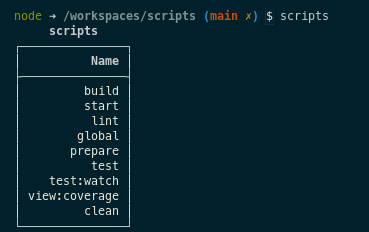
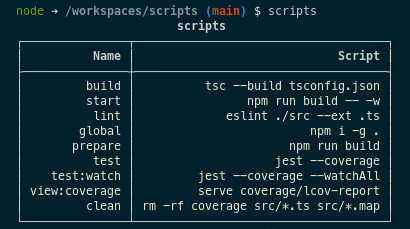
WIP

diff --git a/_sass/app.scss b/_sass/app.scss
@@ -5,3 +5,19 @@
 h3 a, li a {
   font-size: inherit;
 }
+
+p {
+  margin-top: 1rem;
+  margin-bottom: 1rem;
+}
+
+#post {
+  img.half {
+    width: 50%;
+    height: auto;
+  }
+}
+
+.center {
+  text-align: center;
+}

diff --git a/_posts/2020-12-21-quickly-view-node-project-scripts-on-the-cli.md b/_posts/2020-12-21-quickly-view-node-project-scripts-on-the-cli.md
@@ -1,18 +1,30 @@
 ---
-title: Quickly view node project scripts on the cli
+title: Quickly view nodejs project 'scripts' on the cli
 layout: post
 caegories: [nodejs]
 tags: [cli, web-development]
-slug: quickly-view-node-project-scripts-on-the-cli
+slug: quickly-view-nodejs-project-scripts-on-the-cli
 ---
 
-Ahnii! I previously wrote a command line utility named '[packages](./quickly-view-project-dependencies-on-the-cli.md)' which simply prints a list of project dependencies on the command line.
+Ahnii! I previously wrote a command line utility named '[packages]({{ site.baseurl }}{% link _posts/2020-11-21-quickly-view-project-dependencies-on-the-cli.md %})' which simply prints a list of project dependencies on the command line.
 
-I also found that I often want to see a list of scripts in package.json too, so I wrote another utility I've named 'scripts'.
+I found that I also often want to see a list of scripts in package.json, so I wrote another utility I've named 'scripts', observe:
 
-![scripts screenshot](/assets/img/screenshot-scripts.png)
+<p class="center" markdown="1">
+![scripts screenshot](/assets/img/screenshot-scripts.png){:class="half center"}
+</p>
 
-Check it out at [https://github.com/jonesrussell/scripts](https://github.com/jonesrussell/scripts) or simply:
+You can accomplish the same with 'sed', but it's quite a command to remember, observe:
+
+```bash
+sed -n -e '/scripts/,/},/ p' package.json
+```
+
+<p class="center" markdown="1">
+![scripts sed screenshot](/assets/img/screenshot-scripts-sed.png){:class="half center"}
+</p>
+
+Check it out at [https://github.com/jonesrussell/scripts](https://github.com/jonesrussell/scripts) or simply install it and try:
 
 ```sh
 npm i -g @jonesrussell42/scripts
